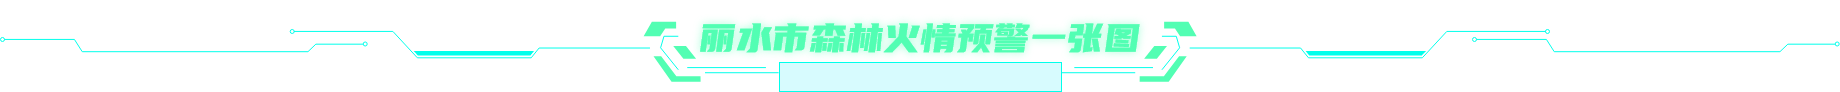
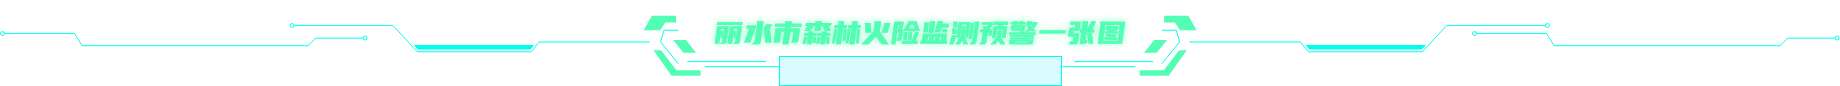
标题替换

diff --git a/public/index.html b/public/index.html
@@ -20,7 +20,7 @@
     <script charset="utf-8" src="https://g.alicdn.com/de/prismplayer/2.8.2/aliplayer-min.js"></script>
     <!-- <script src="https://cdnjs.cloudflare.com/ajax/libs/FileSaver.js/1.3.3/FileSaver.min.js"></script> -->
     <!-- <script src="https://cdn.bootcss.com/blueimp-md5/2.10.0/js/md5.js"></script> -->
-    <title>丽水森林火情预警一张图</title>
+    <title>森林火险监测预警一张图</title>
   </head>
   <body>
     <noscript>

diff --git a/src/store/modules/nav.js b/src/store/modules/nav.js
@@ -1,7 +1,7 @@
 const state = {
   navList: [
     {
-      text: '森林火情预警一张图',
+      text: ' 森林火险监测预警一张图',
       link: '/lqfb',
       avatar: 'assets/images/nav/menu-slfh-icon.png',
       icon: '林区一张图',

diff --git a/src/settings.js b/src/settings.js
@@ -1,6 +1,6 @@
 module.exports = {
 
-  title: '森林火情预警',
+  title: '森林火险监测预警一张图',
 
   /**
    * @type {boolean} true | false
